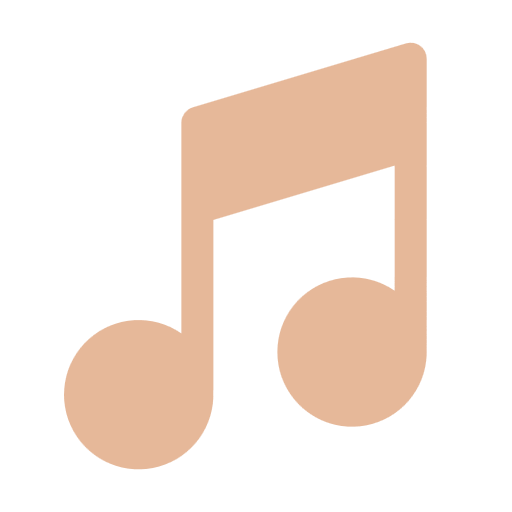
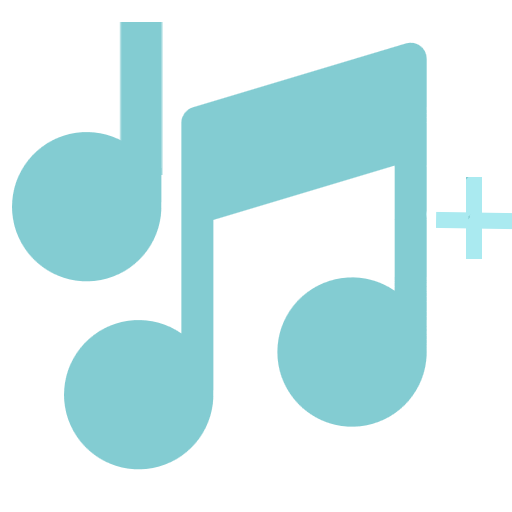
fixes runtime error

diff --git a/MikuMikuWorld/ScoreSerializeWindow.cpp b/MikuMikuWorld/ScoreSerializeWindow.cpp
@@ -23,12 +23,14 @@ namespace MikuMikuWorld
 	};
 	static_assert(FORMAT_COUNT == FORMAT_NAMES.size());
 
-	// FIX: USC dan SUS diaktifkan untuk import
+<<<<<<< HEAD
 	static constexpr std::array<size_t, 5> IMPORT_AVAILABILITY = { true, false, true, true, true };
 	static_assert(FORMAT_COUNT == IMPORT_AVAILABILITY.size());
+=======
+	static constexpr std::array<size_t, 4> EXPORT_AVAILABILITY = { false, true, true, true };
+>>>>>>> f88bd46 (fixes runtime error)
 
-	// FIX: USC dan SUS diaktifkan untuk export
-	static constexpr std::array<size_t, 5> EXPORT_AVAILABILITY = { false, true, true, true, true };
+	static constexpr std::array<size_t, 5> EXPORT_AVAILABILITY = { true, false, true, true, true };
 	static_assert(FORMAT_COUNT == EXPORT_AVAILABILITY.size());
 
 	DefaultScoreSerializeController::DefaultScoreSerializeController(SerializingScore score)

diff --git a/MikuMikuWorld/ApplicationConfiguration.cpp b/MikuMikuWorld/ApplicationConfiguration.cpp
@@ -9,7 +9,7 @@ using namespace nlohmann;
 namespace MikuMikuWorld
 {
 	ApplicationConfiguration config{};
-	constexpr const char* CONFIG_VERSION{ "1.11.0" };
+	constexpr const char* CONFIG_VERSION{ "1.0.0" };
 
 	ApplicationConfiguration::ApplicationConfiguration() : version{ CONFIG_VERSION }
 	{
@@ -112,7 +112,7 @@ namespace MikuMikuWorld
 			pvHoldAnimation = jsonIO::tryGetValue<bool>(config["preview"], "hold_animation", true);
 			pvSimultaneousLine = jsonIO::tryGetValue<bool>(config["preview"], "simultaneous_line", true);
 			pvHoldAlpha = jsonIO::tryGetValue<float>(config["preview"], "hold_alpha", 0.6f);
-			pvGuideAlpha = jsonIO::tryGetValue<float>(config["preview"], "guide_alpha", 0.4f);
+			pvGuideAlpha = jsonIO::tryGetValue<float>(config["preview"], "guide_alpha", 1.0f);
 		}
 
 		if (jsonIO::keyExists(config, "theme"))

diff --git a/MikuMikuWorld/EffectView.cpp b/MikuMikuWorld/EffectView.cpp
@@ -409,6 +409,10 @@ namespace MikuMikuWorld::Effect
 		EffectPool& pool = effectPools[effect];
 		for (int i = note.lane; i < note.lane + note.width; i++)
 		{
+			if (i < 0 || i >= (int)pool.pool.size())
+				continue;
+
+
 			ParticleController& controller = pool.pool[i];
 			controller.worldOffset.position = DirectX::XMVectorSetX(controller.worldOffset.position, getEffectXPos(i, 1, config.pvMirrorScore));
 			controller.play(note, time, -1);

diff --git a/MikuMikuWorld/SusSerializer.cpp b/MikuMikuWorld/SusSerializer.cpp
@@ -261,6 +261,9 @@ namespace MikuMikuWorld
 		{
 			for (const auto& slide : slides)
 			{
+				if (slide.empty())
+					continue;
+
 				bool isGuide = isGuideSlides;
 				const std::string key = noteKey(slide[0]);
 

diff --git a/MikuMikuWorld/ApplicationConfiguration.h b/MikuMikuWorld/ApplicationConfiguration.h
@@ -134,7 +134,7 @@ namespace MikuMikuWorld
 		bool pvMirrorScore{ false };
 		bool pvHoldAnimation{ true };
 		float pvHoldAlpha{ 0.8f };
-		float pvGuideAlpha{ 0.5f };
+		float pvGuideAlpha{ 1.0f };
 		bool pvFlickAnimation{ true };
 		int pvEffectsProfile{ 0 };
 		bool pvDrawToolbar{ true };

diff --git a/MikuMikuWorld/ScoreEditorWindows.cpp b/MikuMikuWorld/ScoreEditorWindows.cpp
@@ -1018,7 +1018,7 @@ namespace MikuMikuWorld
 		if (ImGui::BeginPopupModal(MODAL_TITLE("about"), NULL, ImGuiWindowFlags_NoResize))
 		{
 			ImGui::Text(APP_NAME "\n"
-			                     "This application is based on MikuMikuWorld for UntitledCharts.\n\n"
+			                     "This application is based on MMW4UC and MMW4UC by Monchi.\n\n"
 			                     "See LICENSE and NOTICE for license and attribution information.\n\n");
 			ImGui::Separator();
 

diff --git a/MikuMikuWorld/UI.h b/MikuMikuWorld/UI.h
@@ -8,7 +8,7 @@
 #include "NoteTypes.h"
 #include <vector>
 
-#define APP_NAME "MikuMikuWorld for UntitledCharts by Monchi"
+#define APP_NAME "MikuMikuWorld Extended"
 
 #define IMGUI_TITLE(icon, title)                                                                   \
 	IO::formatString("%s %s###%s", icon, getString(title), title).c_str()

diff --git a/README.md b/README.md
@@ -1,14 +1,11 @@
-**English** / [Japanese](./README.ja.md)
+## MikuMikuWorld++
 
-# MikuMikuWorld for UntitledCharts by Monchi
-
-MikuMikuWorld for UntitledCharts by Monchi, also referred to as MMW4UCbyMonchi, is a fork based directly on [MikuMikuWorld for UntitledCharts](https://github.com/UntitledCharts/MikuMikuWorld4UC).
-
-For the full attribution chain and license information, see [NOTICE](./NOTICE) and [LICENSE](./LICENSE).
+fork of [MMW4UC](https://github.com/UntitledCharts/MikuMikuWorld4UC), merged with [MMW4UC By Monchi](https://github.com/monti114514/MikuMikuWorld4UC)
 
 ## Added Features
 
-In addition to the features inherited from MikuMikuWorld for UntitledCharts, this fork includes changes for the MMW4UCbyMonchi workflow.
+- SUS: import and export capabilities
+- USC: import and export capabilities
 
 ## Translations
 